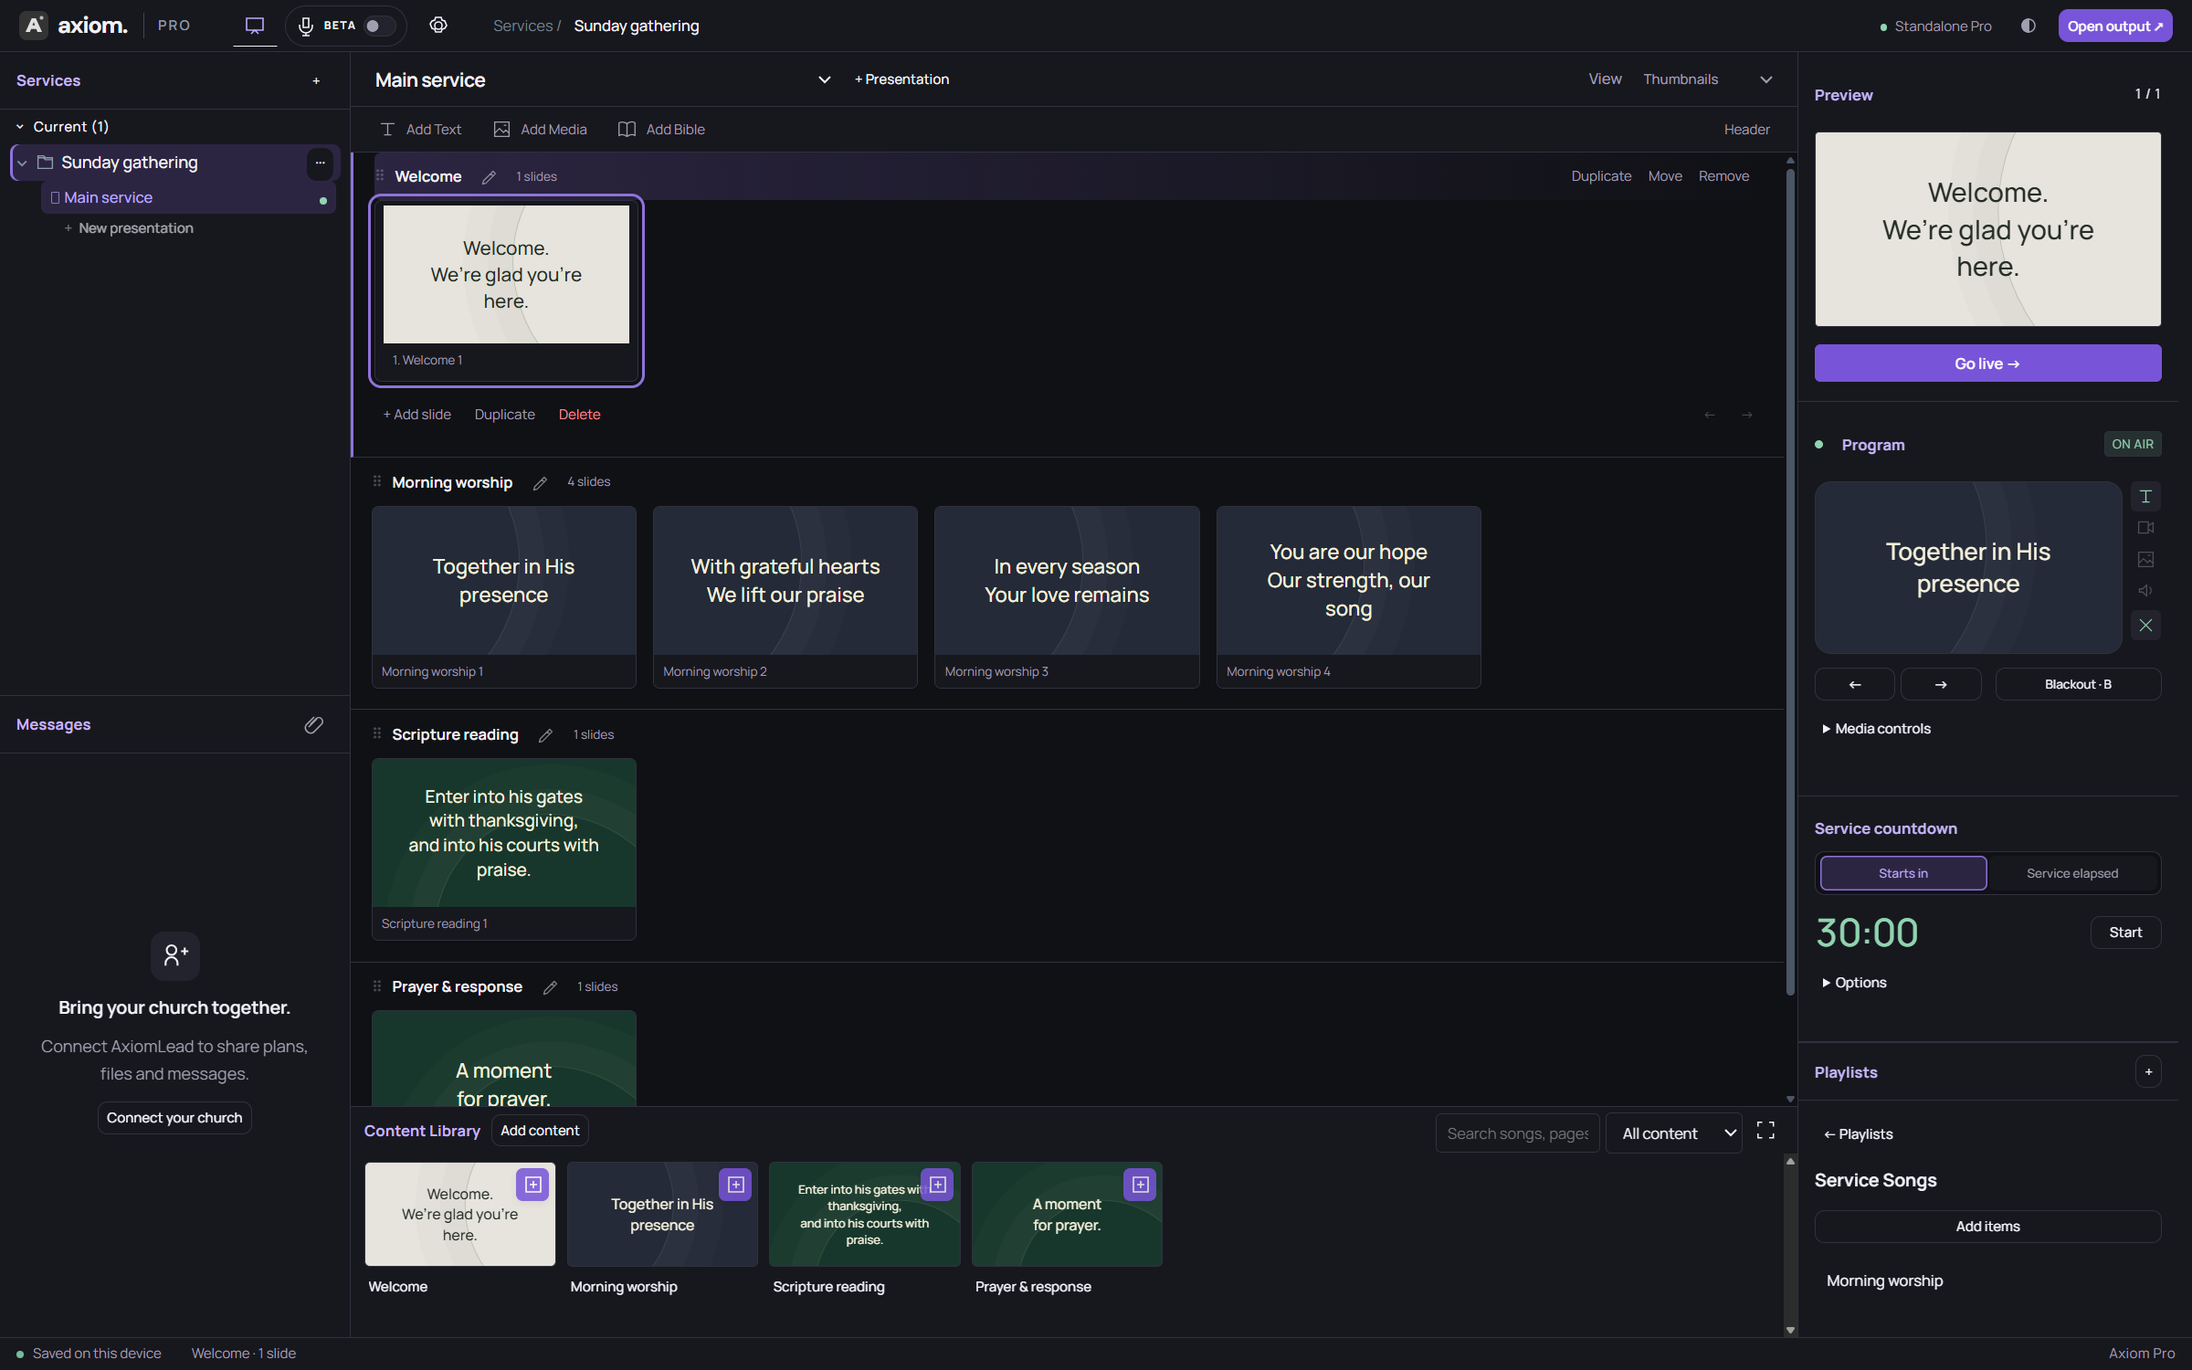
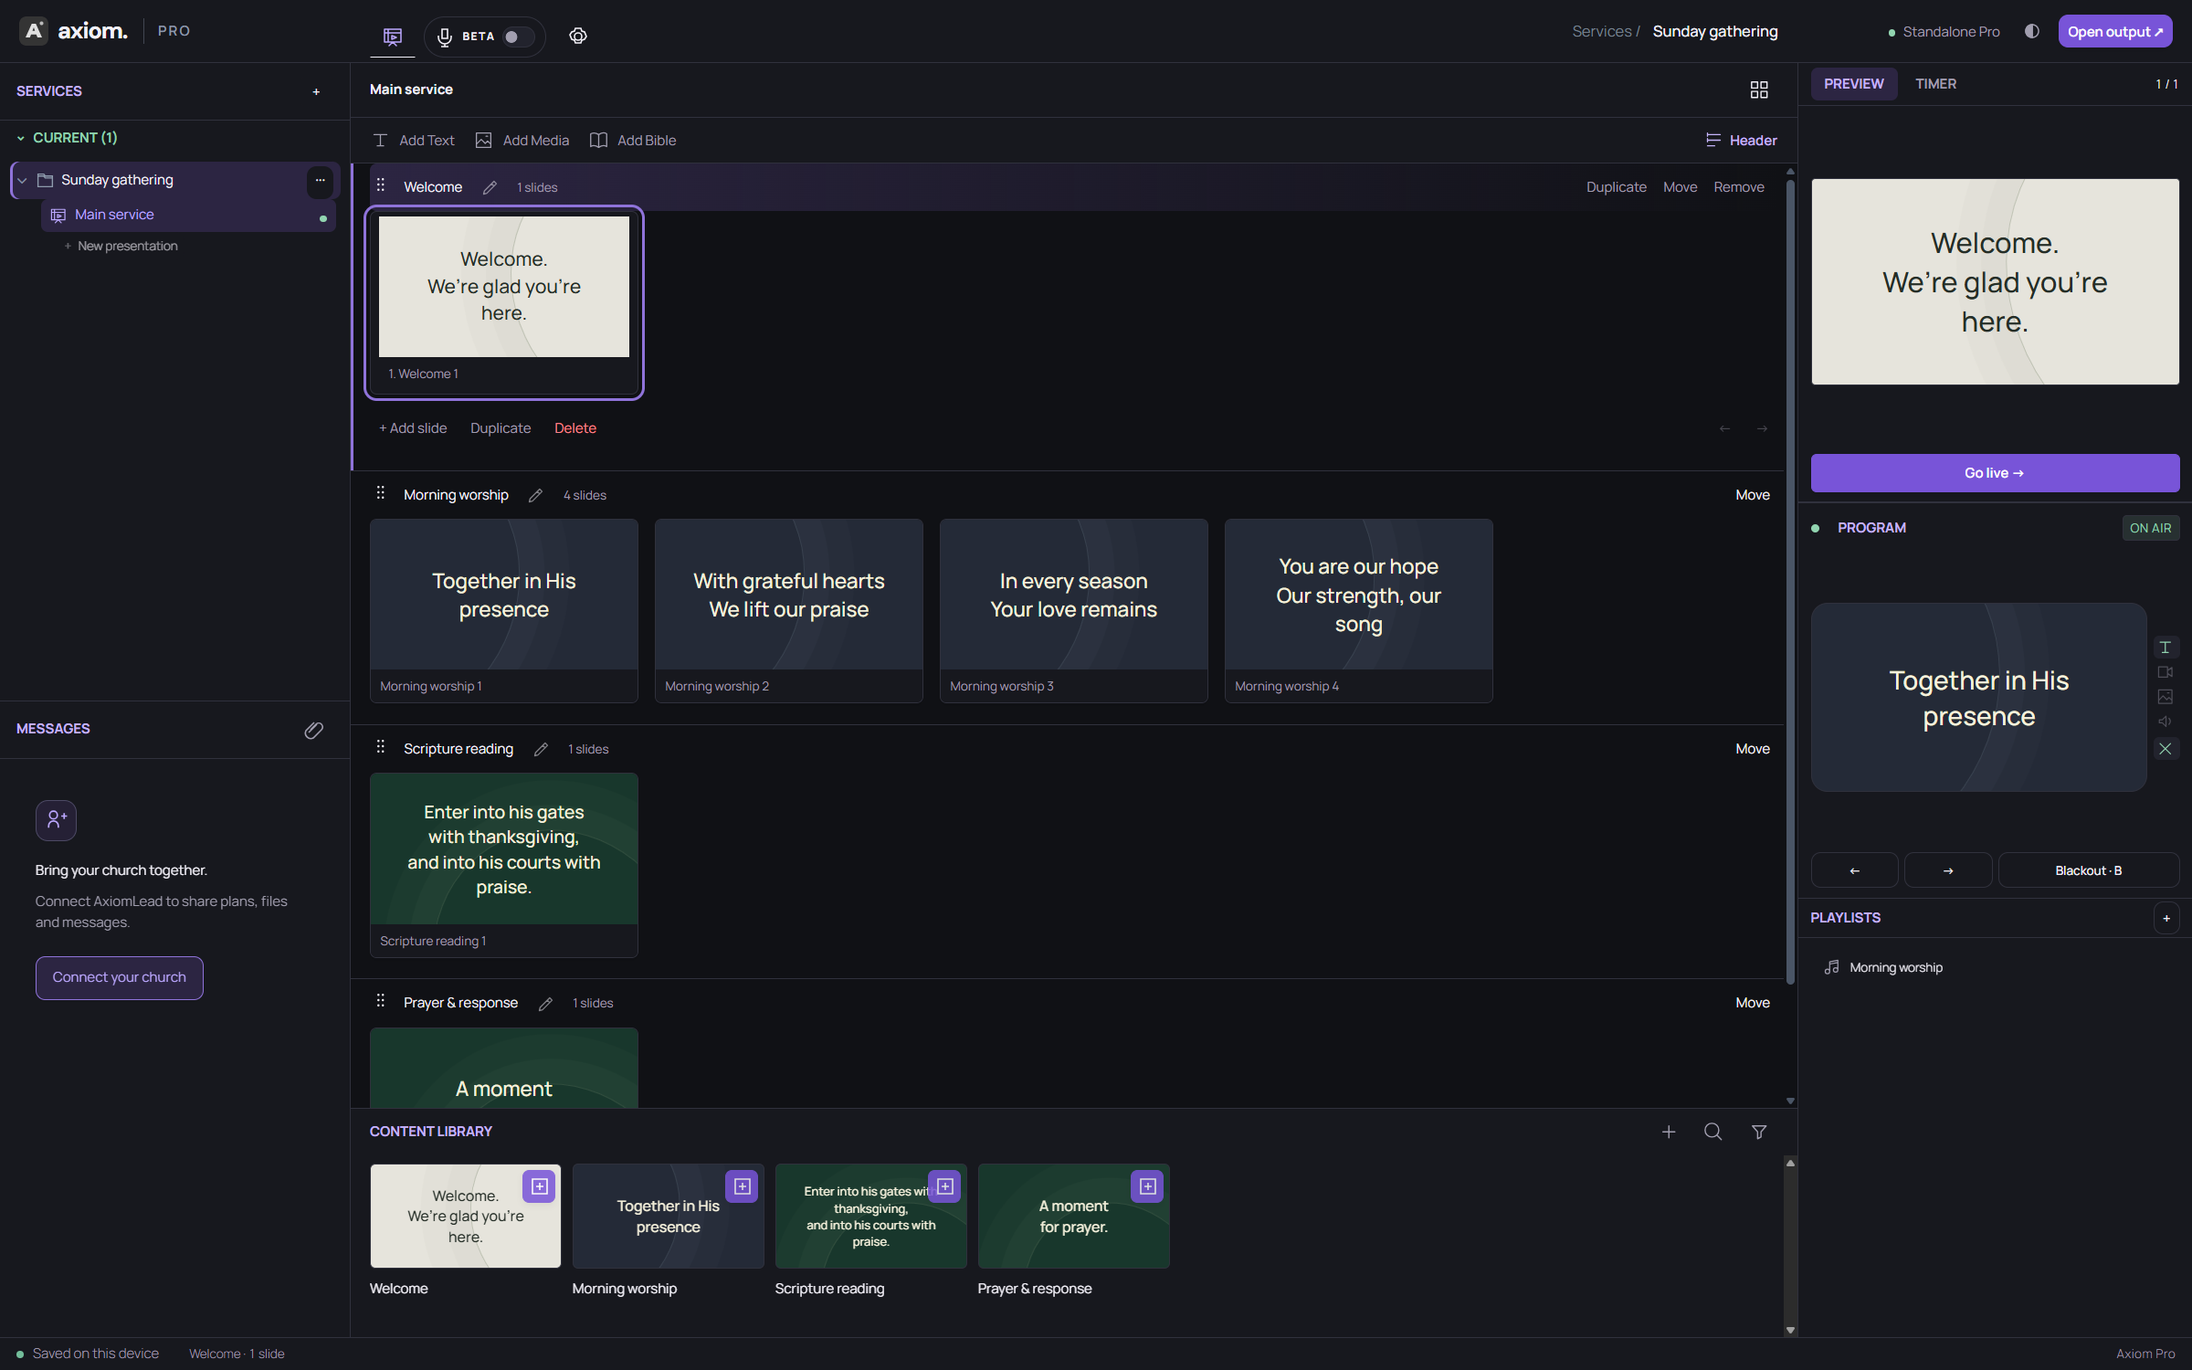
Show verified v0.4.32 downloads and the current Pro workspace

diff --git a/web/index.html b/web/index.html
@@ -11,7 +11,7 @@
 <header class="header"><div class="container nav"><a class="brand" href="/" aria-label="Axiom home"><img src="icon.svg" width="32" height="32" alt="">axiom<span>.</span></a><button class="menu-toggle" aria-expanded="false" aria-controls="main-nav">Menu <span aria-hidden="true">☰</span></button><nav id="main-nav" aria-label="Main navigation"><a href="#product">Product</a><a href="#workflow">How it works</a><a href="#download">Desktop app</a><a href="#pricing">Pricing</a><a href="#questions">FAQs</a></nav><div class="nav-actions"><a class="login" href="workspace.html">Log in</a><a class="button primary small" href="workspace.html?signup=1">Get started <span aria-hidden="true">↗</span></a></div></div></header>
 <main id="main">
 <section class="hero container">
-<a class="release" href="#studio"><span class="release-label">AXIOM PRO 0.4.30</span> Meet the refreshed desktop studio <span aria-hidden="true">↗</span></a>
+<a class="release" href="#studio"><span class="release-label">AXIOM PRO 0.4.32</span> Meet the refreshed desktop studio <span aria-hidden="true">↗</span></a>
 <h1>Church service planning,<br>from team to screen.</h1>
 <p class="hero-description">Plan the service. Prepare the screens. Keep your church connected.<br class="desktop-break"> One workspace for the people who make it happen.</p>
 <div class="actions"><a class="button primary" href="workspace.html?signup=1">Register your church <span aria-hidden="true">↗</span></a><a class="button secondary" href="#download">Download Axiom Pro <span aria-hidden="true">↓</span></a></div>
@@ -22,14 +22,14 @@
 <div class="app-frame"><aside class="app-sidebar"><div class="workspace-logo"><span>G</span><div>Grace Church<small>Illustrative workspace</small></div></div><div class="sidebar-label">WORKSPACE</div><div class="sidebar-link active">▤ <span>Services</span><b>4</b></div><div class="sidebar-link">▱ <span>Team workspace</span></div><div class="sidebar-link">▦ <span>Shared files</span></div><div class="sidebar-bottom"><span class="avatar">JD</span><div>Jamie Davis<small>Pastor / Program team</small></div></div></aside>
 <div class="app-main"><div class="app-breadcrumb">Services <span>/</span> Sunday worship <span class="saved"><i></i> Saved</span></div><div class="app-heading"><div><div class="app-kicker">SERVICE PLAN</div><h2>Sunday worship</h2><p>Sunday, 18 October <span>·</span> 10:00 am</p></div><span class="app-action">Send to Tech <span aria-hidden="true">↗</span></span></div><div class="app-subnav"><b>Running order</b><span>Preparation</span><span>Private study</span><span>Publish</span><span>Team & files</span></div><div class="plan-layout"><div class="order"><div class="order-label"><span>ORDER OF SERVICE</span><span>60 MIN</span></div><div class="order-row"><span class="drag">⠿</span><span class="order-index">01</span><div><b>Welcome & opening prayer</b><small>Host · Welcome the congregation</small></div><span class="duration">5 min</span></div><div class="order-row selected"><span class="drag">⠿</span><span class="order-index">02</span><div><b>Worship</b><small>Worship team · Songs and lyrics</small></div><span class="duration">15 min</span></div><div class="order-row"><span class="drag">⠿</span><span class="order-index">03</span><div><b>Scripture & message</b><small>Pastor · Psalm 46</small></div><span class="duration">30 min</span></div><div class="order-row"><span class="drag">⠿</span><span class="order-index">04</span><div><b>Prayer & response</b><small>Prayer team · Closing</small></div><span class="duration">10 min</span></div><div class="order-add">+ Add service item</div></div><aside class="plan-note"><span class="app-kicker">PRODUCTION NOTES</span><h3>For the media team</h3><p>Keep the welcome slide on screen as people arrive.</p><p>Prepare Psalm 46 for the message. Closing prayer follows the final song.</p><div class="note-rule"></div><span class="app-kicker">HANDOFF INCLUDES</span><ul><li>Running order</li><li>Referenced slide content</li><li>Production notes</li></ul></aside></div></div></div>
 </div>
-<div class="product-panel" id="panel-pro" role="tabpanel" aria-labelledby="tab-pro" tabindex="0" hidden><div class="studio-demo"><a href="studio-preview.png?v=0.4.30" target="_blank" rel="noopener" aria-label="Enlarge the latest Axiom Pro workspace"><img src="studio-preview.png?v=0.4.30" width="1600" height="1000" alt="Axiom Pro 0.4.30 with service sections and Messages on the left, slides and Content Library in the centre, and separate Preview and Program controls on the right" loading="lazy"></a></div></div>
+<div class="product-panel" id="panel-pro" role="tabpanel" aria-labelledby="tab-pro" tabindex="0" hidden><div class="studio-demo"><a href="studio-preview.png?v=0.4.32" target="_blank" rel="noopener" aria-label="Enlarge the latest Axiom Pro workspace"><img src="studio-preview.png?v=0.4.32" width="1600" height="1000" alt="Axiom Pro 0.4.32 with service sections and Messages on the left, slides and Content Library in the centre, and separate Preview and Program controls on the right" loading="lazy"></a></div></div>
 <div class="product-panel" id="panel-u" role="tabpanel" aria-labelledby="tab-u" tabindex="0" hidden><div class="member-demo"><div class="member-context"><span class="app-kicker">AXIOMU / CONGREGATION</span><h2>The service,<br>with you all week.</h2><p>Published messages, scripture and church updates in one place. Personal notes stay in your browser.</p><span class="demo-label">Illustrative congregation view</span></div><div class="member-phone"><div class="phone-top">Grace Church <span>G</span></div><small>THIS WEEK’S MESSAGE</small><h3>Be still, and know.</h3><p>Psalm 46 · Sunday worship</p><div class="member-verse">“God is our refuge and strength, a very present help in trouble.”<small>PSALM 46:1 · KJV</small></div><b>A thought to carry</b><p>Make time this week to pause, pray and reflect on the message.</p><div class="member-note">My sermon notes <span>↗</span></div></div></div></div>
 <div class="showcase-caption"><span id="product-caption">AxiomLead · Build the running order and give your media team a clear handoff.</span><span>Product preview · sample content</span></div>
 </div>
 </section>
 <div class="capability-strip"><div class="container"><span>FROM PREPARATION TO PRESENTATION</span><p>Service planning</p><i aria-hidden="true">/</i><p>Team handoffs</p><i aria-hidden="true">/</i><p>Live projection</p><i aria-hidden="true">/</i><p>Congregation updates</p></div></div>
 <section class="section container" id="workflow"><div class="section-top"><div><span class="eyebrow">A CONNECTED SERVICE WORKFLOW</span><h2>One plan.<br>Everyone on the same page.</h2></div><p>Your pastor, program team and media operators have different jobs. Axiom connects their work around the same service.</p></div><div class="workflow-grid"><article><span class="step">01 <span>PREPARE</span></span><h3>Give the service a clear plan.</h3><p>Build the running order, assign responsibilities and keep service notes alongside the plan.</p><a href="workspace.html?signup=1">Register your church <span aria-hidden="true">↗</span></a></article><article><span class="step">02 <span>HAND OFF & PRESENT</span></span><h3>Get the right content on screen.</h3><p>Send the running order and production notes to Tech. Prepare lyrics, scripture, video and slides, then control exactly what the congregation sees.</p><a href="workspace.html?signup=1&amp;mode=join">Join your media team <span aria-hidden="true">↗</span></a></article><article><span class="step">03 <span>PUBLISH</span></span><h3>Keep the message accessible.</h3><p>Publish summaries, key scriptures and church updates. Members can revisit previous services and keep private notes in a simple, mobile-friendly reader.</p><a href="workspace.html?signup=1&amp;mode=join">Join your congregation <span aria-hidden="true">↗</span></a></article></div></section>
-<section class="studio-section" id="studio"><div class="container studio-grid"><div class="studio-copy"><span class="eyebrow">AXIOM PRO / PRESENTATION STUDIO</span><h2>Your service.<br>A clearer desk.</h2><p>Organise the service, prepare the next slide and keep Program live. Axiom Pro gives each task its place, with a spacious centre workspace and adjustable panes.</p><ul class="feature-list"><li><b>Prepare content your way</b><span>Rename section headers in place. Collect song lyrics in playlists and right-click to add songs to a service. Import PDF and PowerPoint slides, and edit text privately before going live.</span></li><li><b>Keep Program under control</b><span>Separate Preview and Program, with clear controls for text, video, images and audio. Blackout, playback and the service timer stay close at hand.</span></li><li><b>Local first. Connected when needed.</b><span>Keep services and large media files on your computer. Connect your church for shared agendas, notes, messages and team files. Choose Axiom Charcoal or Axiom Pearl, with crisp Manrope typography.</span></li></ul><a class="button primary" href="#download">Download Axiom Pro <span aria-hidden="true">↓</span></a><p class="standalone-note">No account needed for the desktop app. <a href="workspace.html?signup=1&amp;mode=join">Joining a church team? Use your invitation.</a></p></div><figure class="studio-image"><div class="image-bar"><span>AXIOM PRO 0.4.30</span><span>Operator workspace</span></div><a href="studio-preview.png?v=0.4.30" target="_blank" rel="noopener" aria-label="View the full Axiom Pro desktop screenshot"><img src="studio-preview.png?v=0.4.30" width="1600" height="1000" loading="lazy" alt="Current Axiom Pro desktop app with editable service sections, a Content Library, AxiomAI listening and Program layer controls"></a><figcaption>Axiom Pro 0.4.30 · sample service content · click to enlarge</figcaption></figure></div></section>
+<section class="studio-section" id="studio"><div class="container studio-grid"><div class="studio-copy"><span class="eyebrow">AXIOM PRO / PRESENTATION STUDIO</span><h2>Your service.<br>A clearer desk.</h2><p>Organise the service, prepare the next slide and keep Program live. Axiom Pro gives each task its place, with a spacious centre workspace and adjustable panes.</p><ul class="feature-list"><li><b>Prepare content your way</b><span>Rename section headers in place. Save songs directly in Playlists, edit their lyrics and add independent copies to your slides. Import PDF and PowerPoint slides, and edit text privately before going live.</span></li><li><b>Keep Program under control</b><span>Separate Preview and Program, with clear controls for text, video, images and audio. Blackout stays close at hand, while Preview and Timer share a compact tabbed view.</span></li><li><b>Local first. Connected when needed.</b><span>Keep services and large media files on your computer. Connect your church for shared agendas, notes, messages and team files. Choose Axiom Charcoal or Axiom Pearl, with crisp Manrope typography.</span></li></ul><a class="button primary" href="#download">Download Axiom Pro <span aria-hidden="true">↓</span></a><p class="standalone-note">No account needed for the desktop app. <a href="workspace.html?signup=1&amp;mode=join">Joining a church team? Use your invitation.</a></p></div><figure class="studio-image"><div class="image-bar"><span>AXIOM PRO 0.4.32</span><span>Operator workspace</span></div><a href="studio-preview.png?v=0.4.32" target="_blank" rel="noopener" aria-label="View the full Axiom Pro desktop screenshot"><img src="studio-preview.png?v=0.4.32" width="1600" height="1000" loading="lazy" alt="Current Axiom Pro desktop app with editable service sections, a Content Library, AxiomAI listening and Program layer controls"></a><figcaption>Axiom Pro 0.4.32 · sample service content · click to enlarge</figcaption></figure></div></section>
 <section class="section container details-section"><div class="section-top"><div><span class="eyebrow">BUILT FOR THE WORK BEHIND THE SERVICE</span><h2>The details your<br>team needs, in one place.</h2></div><p>Less searching for the latest plan. More clarity about what’s next and who needs it.</p></div><div class="details-grid"><article><span class="detail-index">01 / SERVICE HISTORY</span><h3>Keep every service plan.</h3><p>Revisit previous services and reuse an agenda for the next gathering.</p><div class="template-list"><span><i aria-hidden="true">▤</i> Sunday worship <small>12 Oct</small></span><span><i aria-hidden="true">▤</i> Prayer evening <small>8 Oct</small></span><span><i aria-hidden="true">▤</i> Bible study <small>5 Oct</small></span></div></article><article><span class="detail-index">02 / COLLABORATE WITH CONTEXT</span><h3>Keep the conversation close.</h3><p>Send the agenda, notes and files when each is ready. Tech sees every update in one service conversation, on a computer or in the lightweight phone inbox.</p><div class="handoff-demo"><span class="file-icon" aria-hidden="true">▱</span><div><b>Sunday worship</b><small>Running order + production notes</small></div><span class="handoff-tag">Handoff</span></div><div class="handoff-foot">AxiomLead <span aria-hidden="true">→</span> Axiom Pro</div></article><article><span class="detail-index">03 / GIVE EACH TEAM THE RIGHT VIEW</span><h3>Access that fits the role.</h3><p>Invite leadership, media teams and congregation members with role-specific church codes. Private study notes stay with leadership.</p><div class="access-list"><div><span class="avatar">PL</span><b>Pastor / Program</b><span>AxiomLead</span></div><div><span class="avatar">TM</span><b>Tech / Media</b><span>Axiom Pro</span></div><div><span class="avatar">CM</span><b>Congregation</b><span>AxiomU</span></div></div></article></div></section>
 <section class="download-section container" id="download" aria-labelledby="desktop-download-title"><div class="section-top"><div><span class="eyebrow">AXIOM PRO FOR DESKTOP</span><h2 id="desktop-download-title">Your presentation studio.<br>No account required.</h2></div><p>Download the latest Axiom Pro for Mac or Windows. Prepare with a private Preview, present through Program, and keep services and media on your computer. No account or church invitation required.</p></div><div id="desktop-downloads" class="desktop-downloads" aria-label="Desktop downloads"></div><p id="desktop-download-status" class="download-footnote" role="status"></p><p class="download-footnote">Early desktop release · unsigned. Your computer may ask you to verify the app. Online scripture lookups need internet.</p><a class="download-release-link" href="https://github.com/JasKay/Axiom/releases" target="_blank" rel="noopener">All desktop releases ↗</a></section>
 <section class="pricing-section container" id="pricing" aria-labelledby="pricing-title"><div class="section-top"><div><span class="eyebrow">PRICING</span><h2 id="pricing-title">One tool, or your whole team.</h2></div><p>Present on your own for free. Connect your church’s planning, media and congregation with the full suite.</p></div><div class="pricing-grid"><article class="pricing-card"><span class="eyebrow">STANDALONE</span><h3>Axiom Pro</h3><p class="pricing-audience">For Tech &amp; Media operators working independently.</p><p class="plan-price">Free</p><ul><li>Presentation studio for Mac and Windows</li><li>Lyrics, scripture, images, videos and documents</li><li>Preview, Program, playlists and editable service sections</li><li>Charcoal/Pearl themes and private typography controls</li></ul><a class="button secondary" href="#download">Download Axiom Pro <span aria-hidden="true">↓</span></a><small>No account or church invitation required.</small></article><article class="pricing-card pricing-suite"><span class="eyebrow">CHURCH SUITE</span><h3>Axiom for your church</h3><p class="pricing-audience">Plan, present and share the service together.</p><p class="plan-price">$9.99<span>/month</span></p><p class="price-unit">Per church</p><ul><li>AxiomLead, Axiom Pro and AxiomU</li><li>Shared service plans, messages and files</li><li>Team invitations and congregation updates</li></ul><a class="button primary" href="workspace.html?signup=1">Register your church <span aria-hidden="true">↗</span></a><small>Billing is coming soon. Registration does not start a paid subscription.</small></article></div></section>
